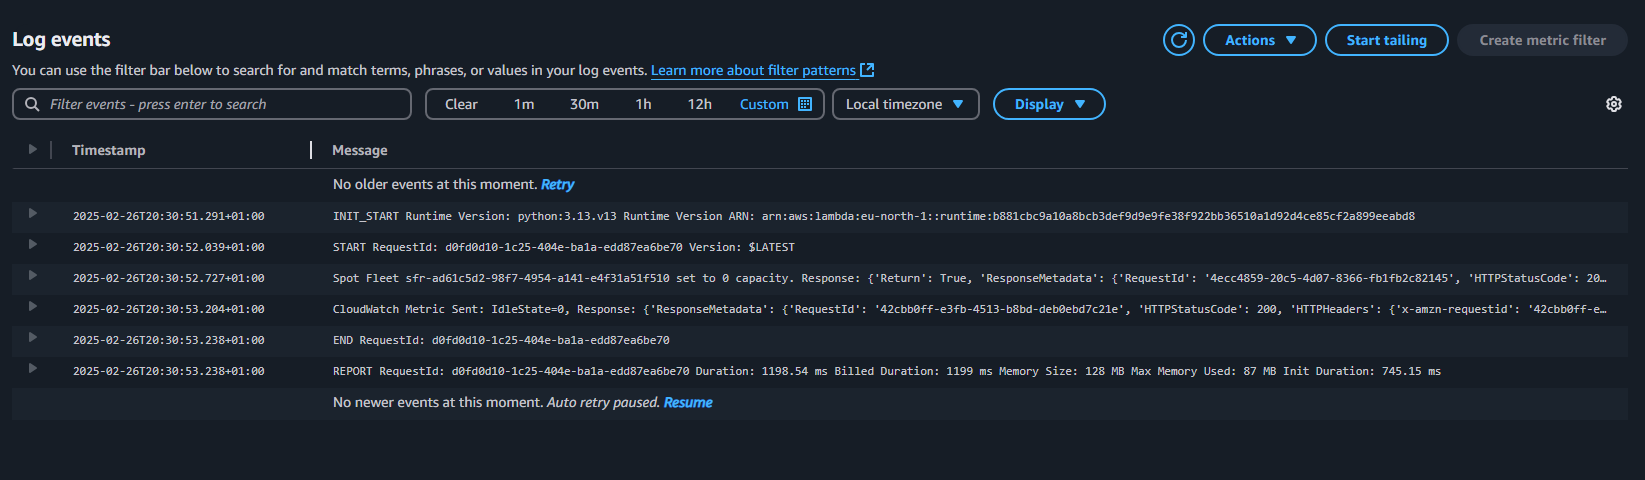
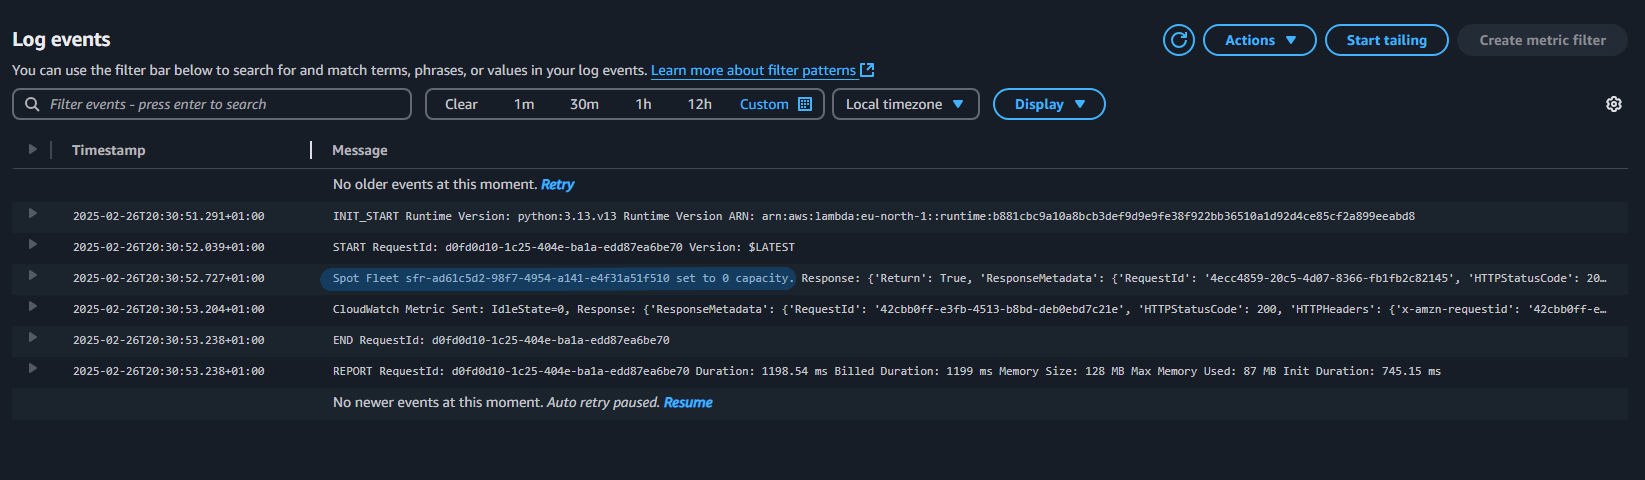
README.md ready 1

Changed region(s): [[0.186, 0.5312, 0.496, 0.625]]

diff --git a/README.md b/README.md
@@ -79,9 +79,21 @@ It includes:
 
 <img src="Screenshots/1- VPC set up.png" width="750">
 
+### Parsec Game Running
+
+<img src="Screenshots/9.1-Palworld is running.png" width="750">
+
 ### CloudWatch
 
-<img src="Screenshots/Alarm idle 30 triggered and  lambda sent 0 to metrics to bring alarms to OK state.png" width="750">
+<img src="Screenshots/idle 15 alarm metric went off.png" width="750">
+
+### SNS Email Notification
+
+<img src="Screenshots/SNS idle 15 email.png" width="750">
+
+### Auto Shutdown Proof
+
+<img src="Screenshots/Log Events - Lambda.png" width="750">
 
 ---
 
